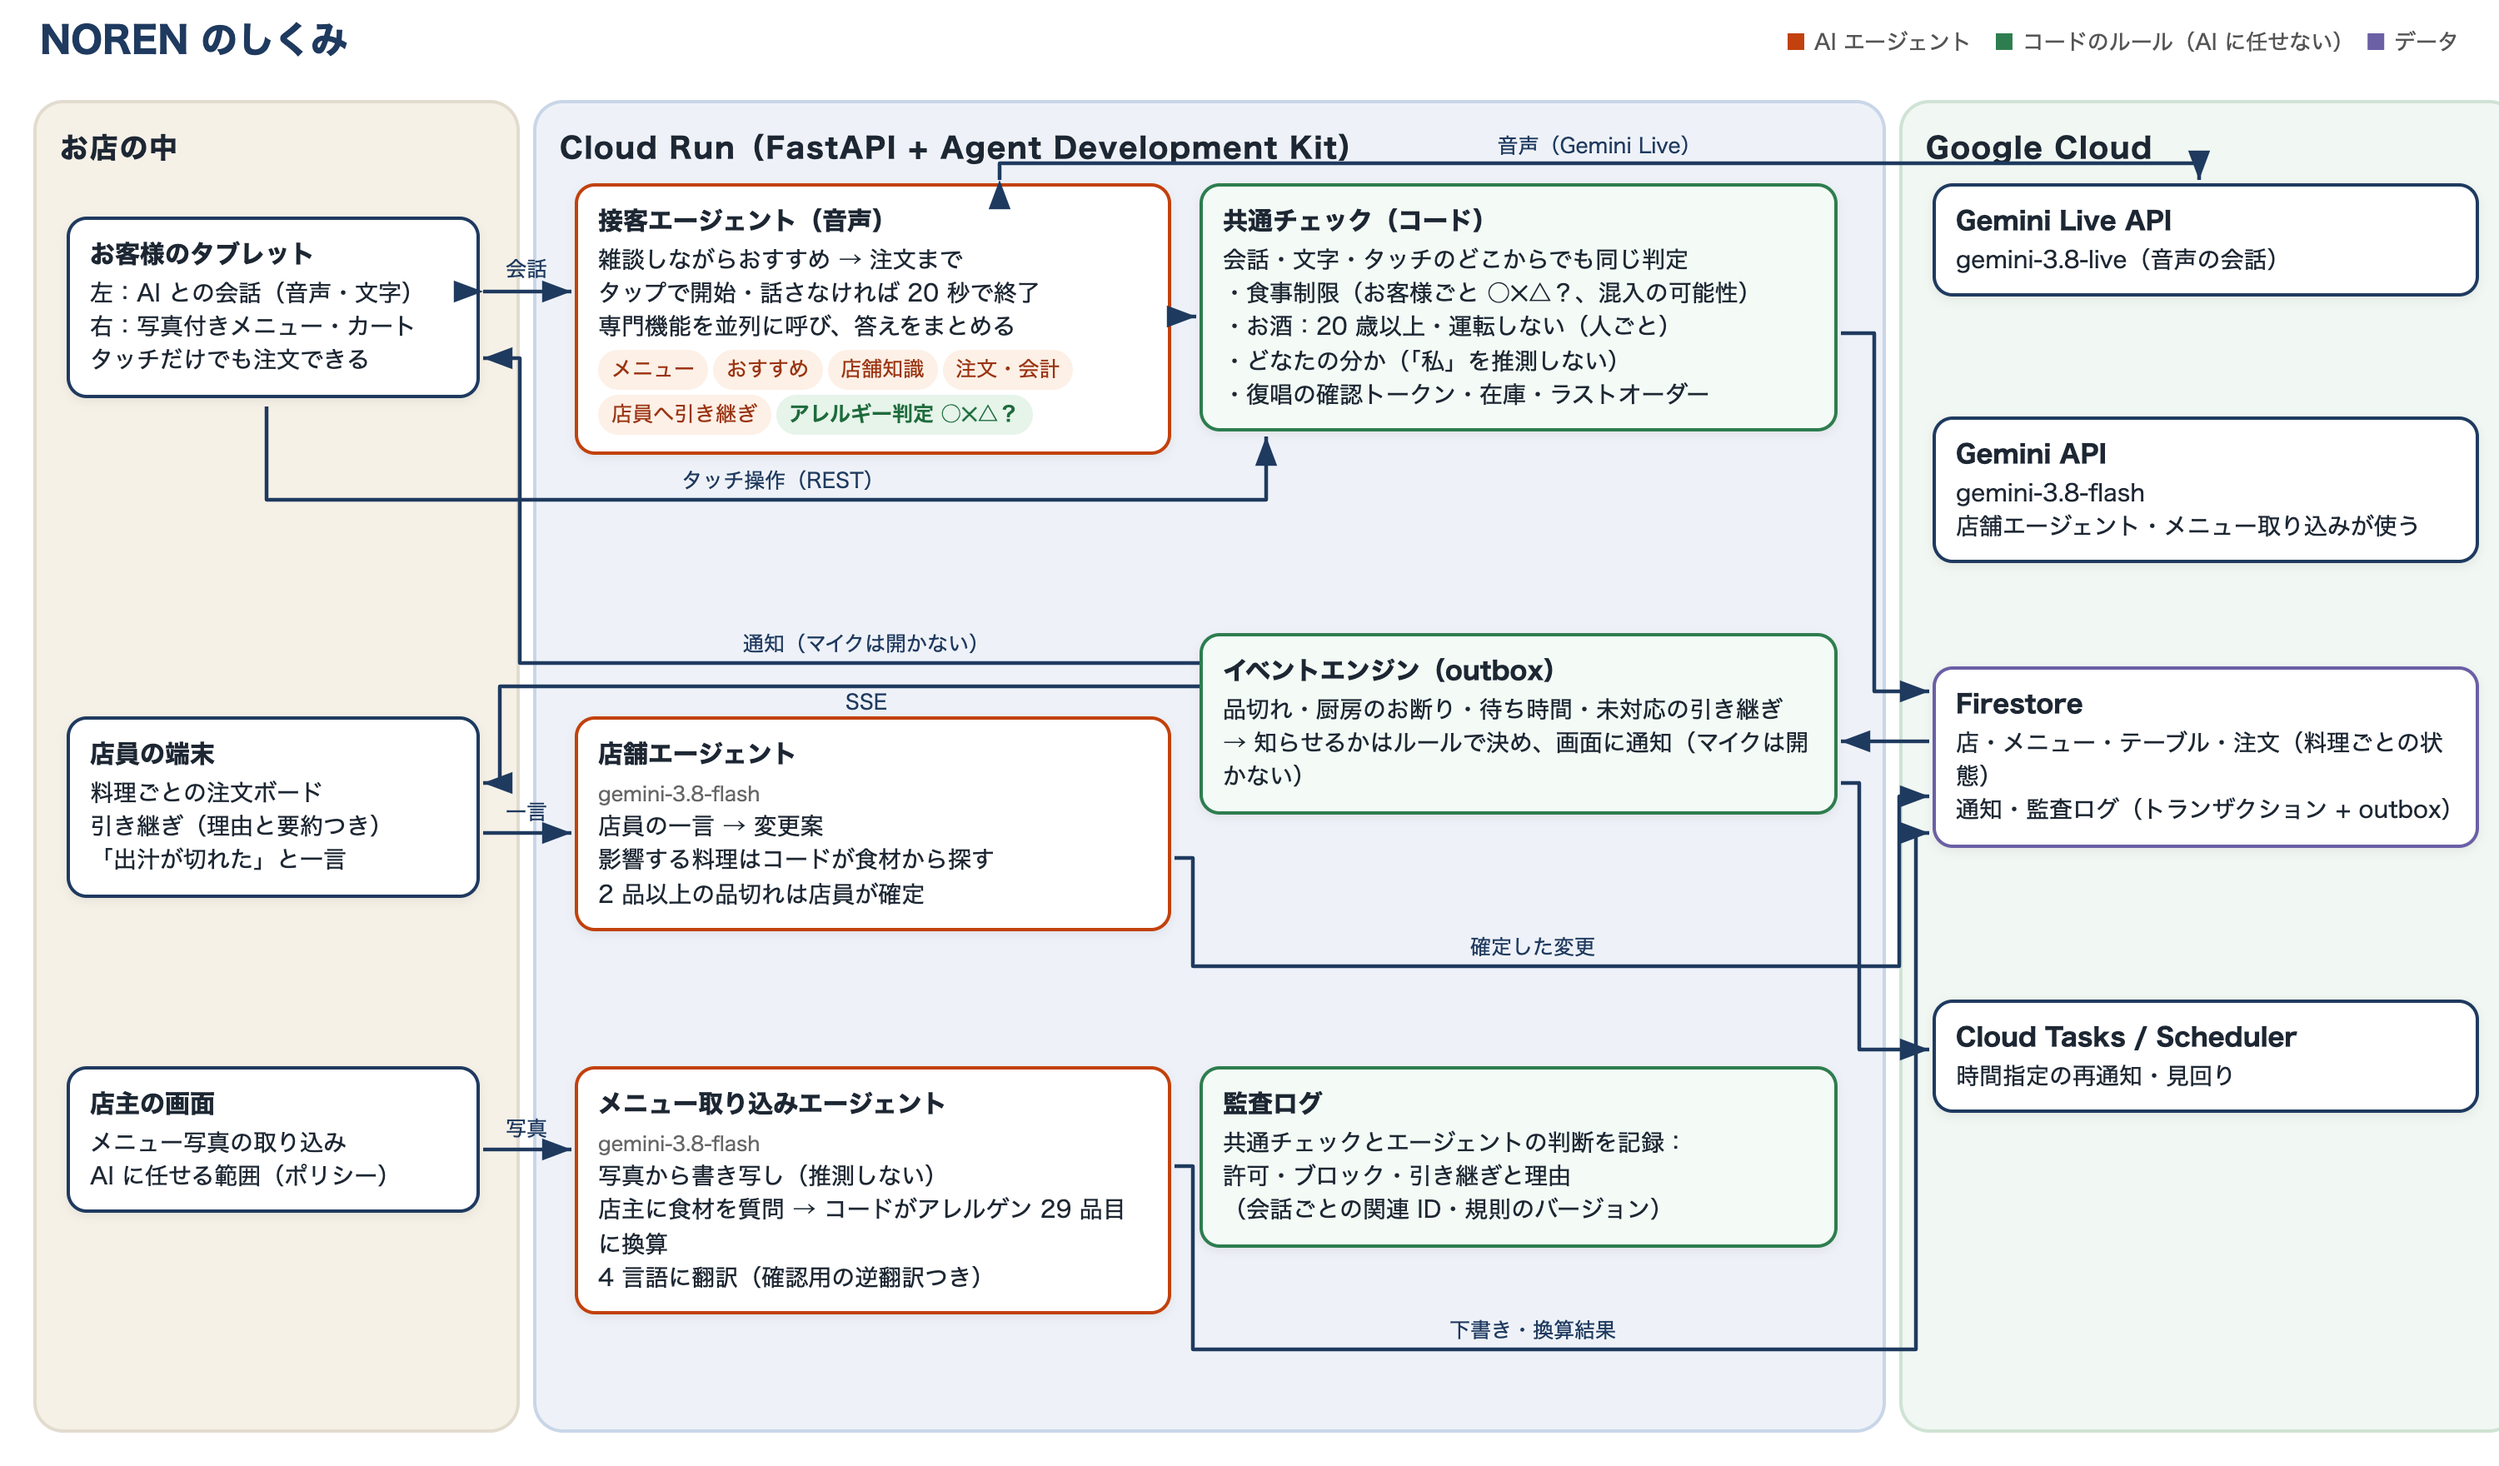
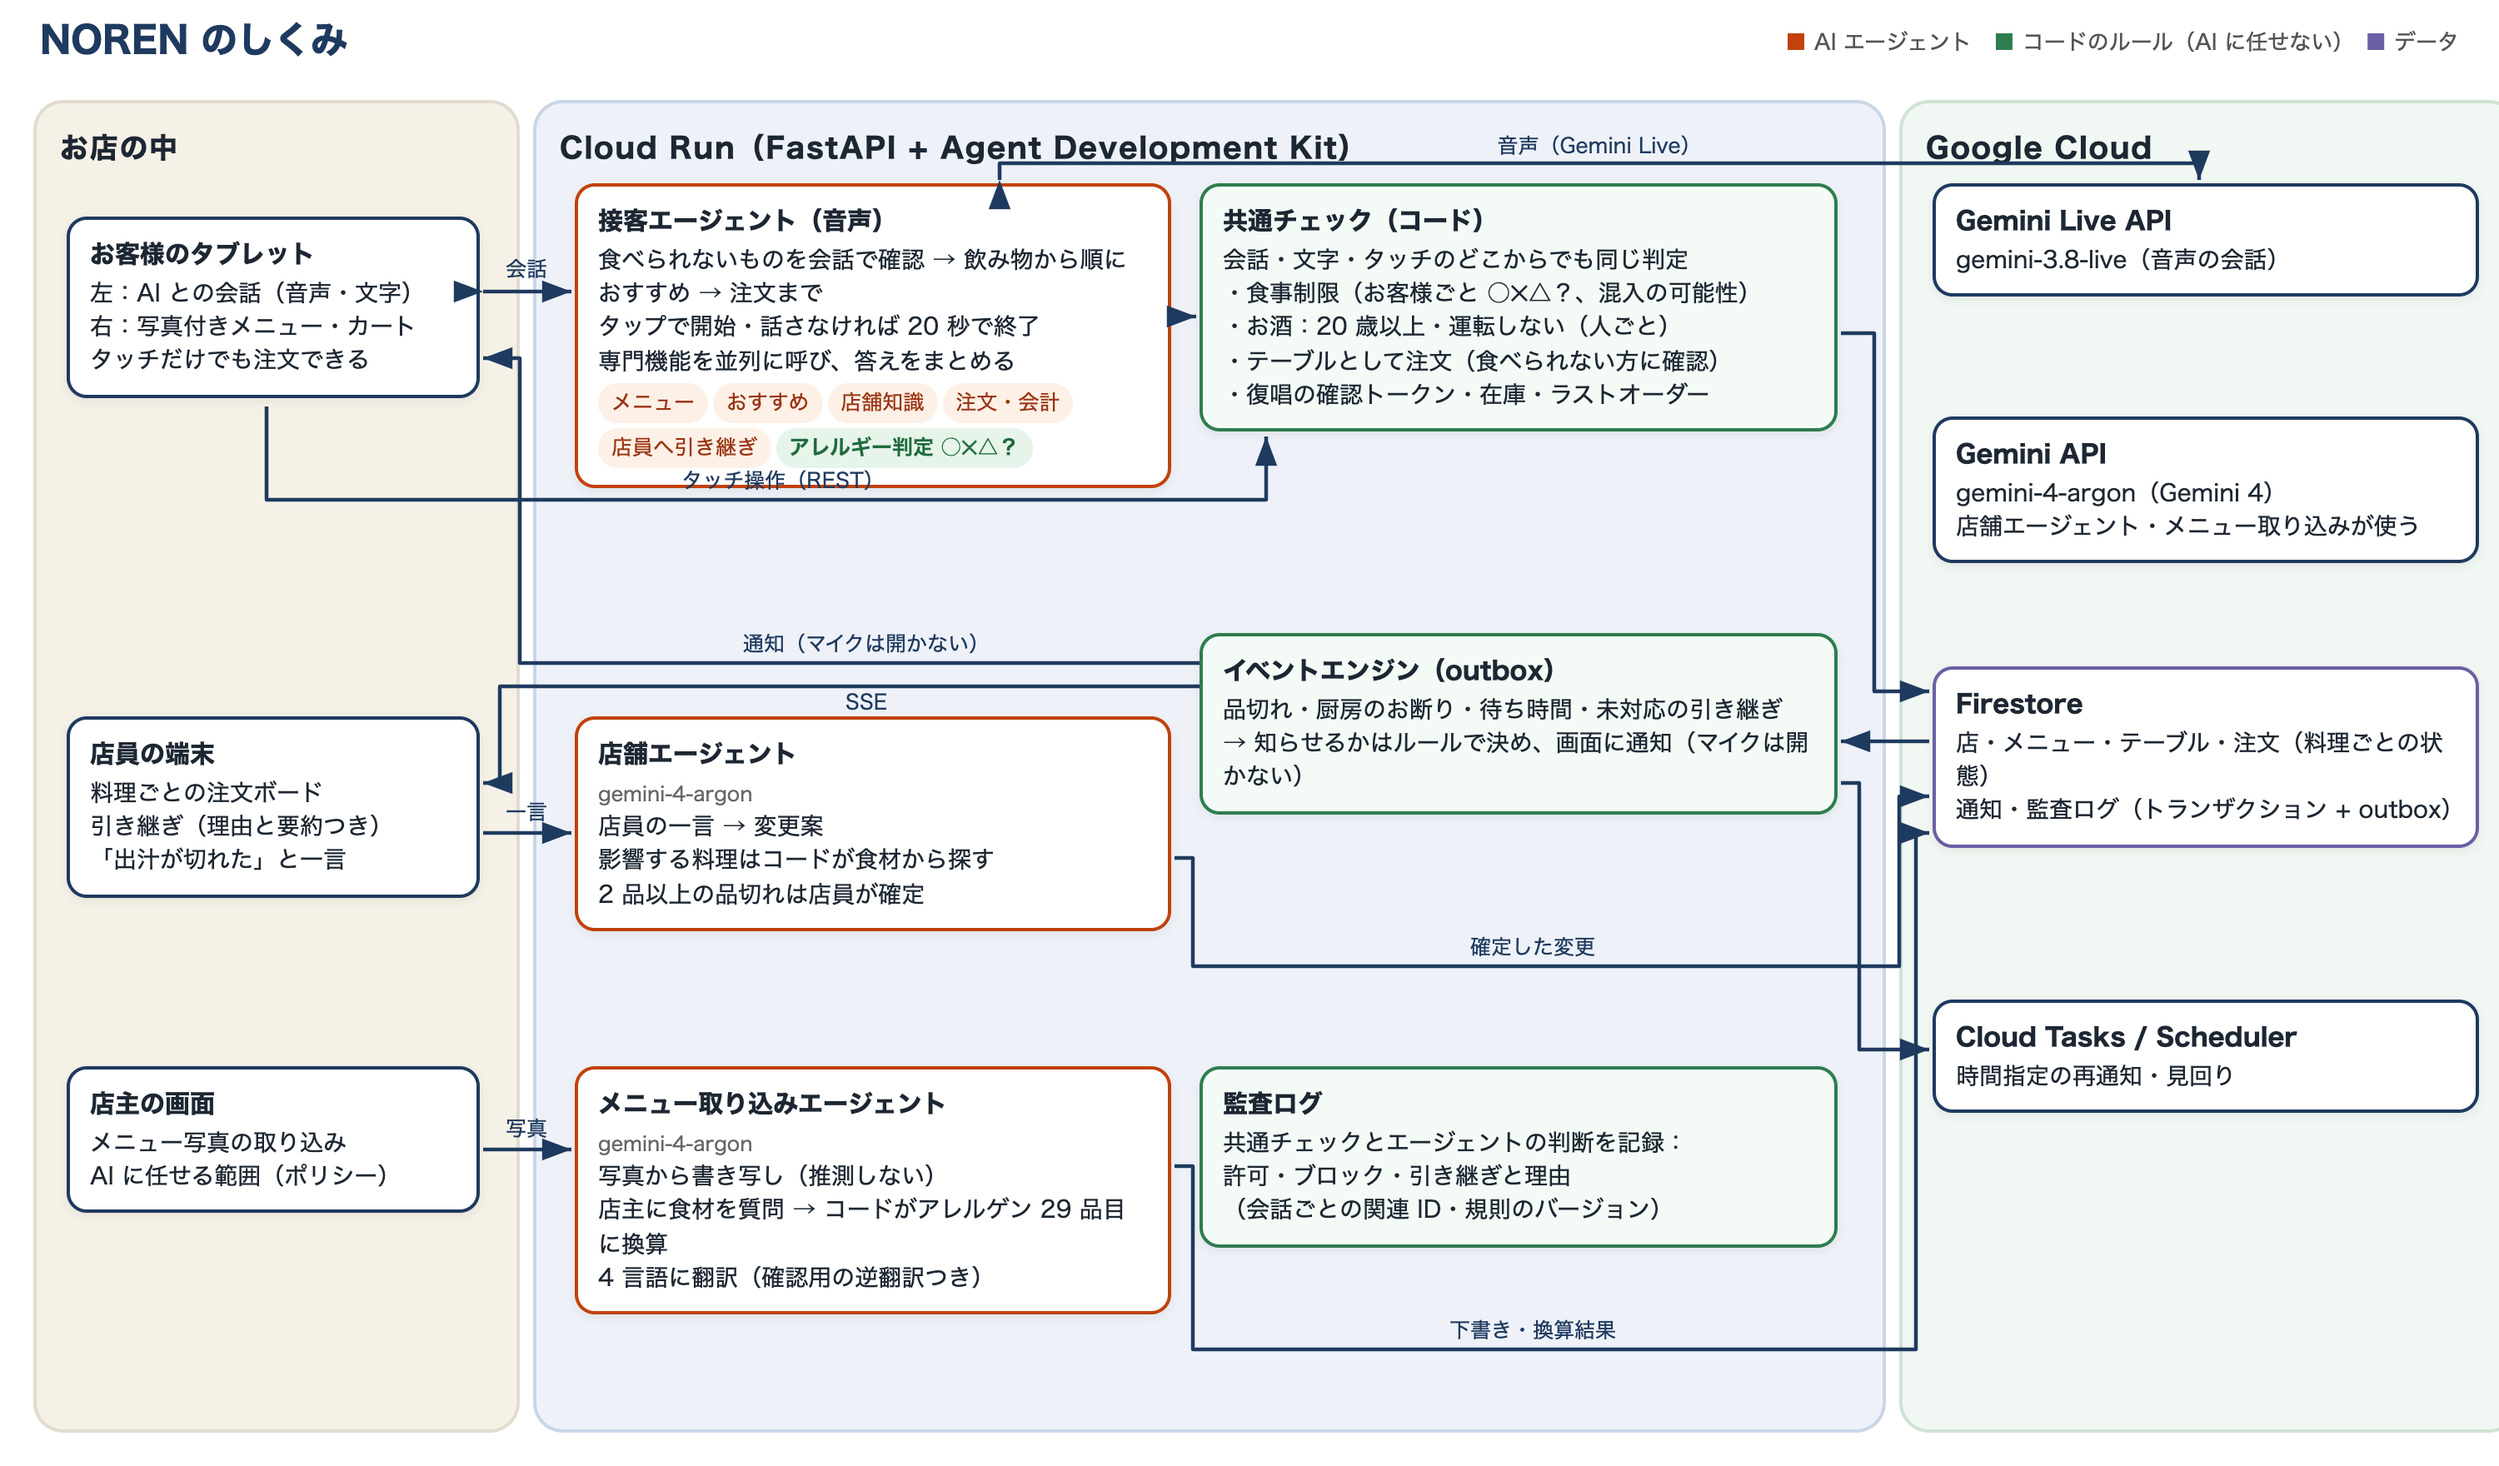
docs: 構成図を更新（Gemini 4 Argon、会話で食べられないものを確認、テーブルとしての注文）

diff --git a/docs/architecture.html b/docs/architecture.html
@@ -26,16 +26,16 @@ svg{position:absolute;left:0;top:0;width:1500px;height:880px;pointer-events:none
 <div class="box" id="staff" style="left:40px;top:430px;width:220px"><b>店員の端末</b>料理ごとの注文ボード<br>引き継ぎ（理由と要約つき）<br>「出汁が切れた」と一言</div>
 <div class="box" id="owner" style="left:40px;top:640px;width:220px"><b>店主の画面</b>メニュー写真の取り込み<br>AI に任せる範囲（ポリシー）</div>
 
-<div class="box ai" id="reception" style="left:345px;top:110px;width:330px"><b>接客エージェント（音声）</b>雑談しながらおすすめ → 注文まで<br>タップで開始・話さなければ 20 秒で終了<br>専門機能を並列に呼び、答えをまとめる
+<div class="box ai" id="reception" style="left:345px;top:110px;width:330px"><b>接客エージェント（音声）</b>食べられないものを会話で確認 → 飲み物から順におすすめ → 注文まで<br>タップで開始・話さなければ 20 秒で終了<br>専門機能を並列に呼び、答えをまとめる
 <div><span class="tool">メニュー</span><span class="tool">おすすめ</span><span class="tool">店舗知識</span><span class="tool">注文・会計</span><span class="tool">店員へ引き継ぎ</span><span class="tool must">アレルギー判定 ○✕△？</span></div></div>
-<div class="box rule" id="rules" style="left:720px;top:110px;width:355px"><b>共通チェック（コード）</b>会話・文字・タッチのどこからでも同じ判定<br>・食事制限（お客様ごと ○✕△？、混入の可能性）<br>・お酒：20 歳以上・運転しない（人ごと）<br>・どなたの分か（「私」を推測しない）<br>・復唱の確認トークン・在庫・ラストオーダー</div>
+<div class="box rule" id="rules" style="left:720px;top:110px;width:355px"><b>共通チェック（コード）</b>会話・文字・タッチのどこからでも同じ判定<br>・食事制限（お客様ごと ○✕△？、混入の可能性）<br>・お酒：20 歳以上・運転しない（人ごと）<br>・テーブルとして注文（食べられない方に確認）<br>・復唱の確認トークン・在庫・ラストオーダー</div>
 <div class="box rule" id="events" style="left:720px;top:380px;width:355px"><b>イベントエンジン（outbox）</b>品切れ・厨房のお断り・待ち時間・未対応の引き継ぎ<br>→ 知らせるかはルールで決め、画面に通知（マイクは開かない）</div>
-<div class="box ai" id="storeagent" style="left:345px;top:430px;width:330px"><b>店舗エージェント</b><span style="font-size:12px;color:#666">gemini-3.8-flash</span><br>店員の一言 → 変更案<br>影響する料理はコードが食材から探す<br>2 品以上の品切れは店員が確定</div>
-<div class="box ai" id="menuagent" style="left:345px;top:640px;width:330px"><b>メニュー取り込みエージェント</b><span style="font-size:12px;color:#666">gemini-3.8-flash</span><br>写真から書き写し（推測しない）<br>店主に食材を質問 → コードがアレルゲン 29 品目に換算<br>4 言語に翻訳（確認用の逆翻訳つき）</div>
+<div class="box ai" id="storeagent" style="left:345px;top:430px;width:330px"><b>店舗エージェント</b><span style="font-size:12px;color:#666">gemini-4-argon</span><br>店員の一言 → 変更案<br>影響する料理はコードが食材から探す<br>2 品以上の品切れは店員が確定</div>
+<div class="box ai" id="menuagent" style="left:345px;top:640px;width:330px"><b>メニュー取り込みエージェント</b><span style="font-size:12px;color:#666">gemini-4-argon</span><br>写真から書き写し（推測しない）<br>店主に食材を質問 → コードがアレルゲン 29 品目に換算<br>4 言語に翻訳（確認用の逆翻訳つき）</div>
 <div class="box rule" id="audit" style="left:720px;top:640px;width:355px"><b>監査ログ</b>共通チェックとエージェントの判断を記録：<br>許可・ブロック・引き継ぎと理由<br>（会話ごとの関連 ID・規則のバージョン）</div>
 
 <div class="box" id="live" style="left:1160px;top:110px;width:300px"><b>Gemini Live API</b>gemini-3.8-live（音声の会話）</div>
-<div class="box" id="flash" style="left:1160px;top:250px;width:300px"><b>Gemini API</b>gemini-3.8-flash<br>店舗エージェント・メニュー取り込みが使う</div>
+<div class="box" id="flash" style="left:1160px;top:250px;width:300px"><b>Gemini API</b>gemini-4-argon（Gemini 4）<br>店舗エージェント・メニュー取り込みが使う</div>
 <div class="box store" id="fs" style="left:1160px;top:400px;width:300px"><b>Firestore</b>店・メニュー・テーブル・注文（料理ごとの状態）<br>通知・監査ログ（トランザクション + outbox）</div>
 <div class="box" id="tasks" style="left:1160px;top:600px;width:300px"><b>Cloud Tasks / Scheduler</b>時間指定の再通知・見回り</div>
 <svg id="s"><defs><marker id="a" markerWidth="10" markerHeight="10" refX="8" refY="3" orient="auto"><path d="M0,0 L8,3 L0,6 Z" fill="#1f3a5f"/></marker></defs></svg>
